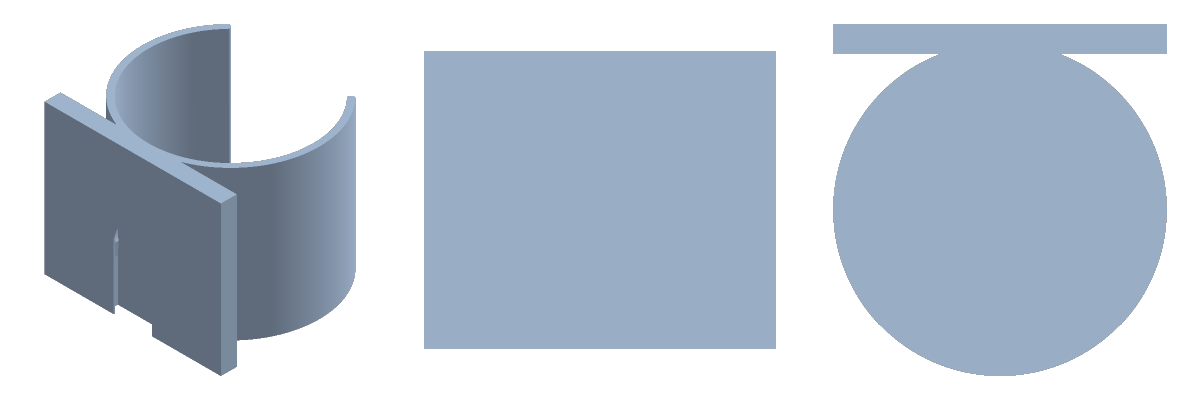
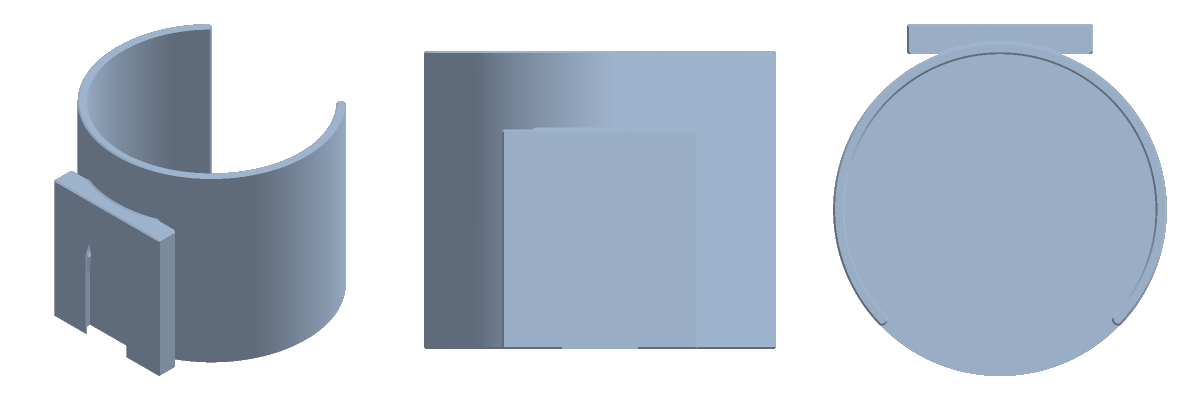
feat(cylindrical): right-size the back plate to the slot envelope + treat user-exposed edges (pst-6piw §2/§3) (#93)
Applies the new design guidelines to the C-ring holder. This lands §2 (edge
treatment) and §3 (material efficiency); §4 (cup-plate web) is deferred — see
the follow-up bead and the PR body for why the narrow §3 plate fights a web.

§3 material efficiency (AC#1/#2)
- _plate_geometry now sizes the plate to the SLOT ENVELOPE + margin
  (_min_plate_width(n) x MIN_PLATE_HEIGHT, both already fold _SLOT_EDGE_MARGIN
  in on every side), a function of the slot COUNT alone — independent of d and
  h. v4 oversized it to max(collar_width, ...) x max(h, ...).
- Volume: holder_spray_can 61916 -> 46483 mm^3 (-25%); holder_bottle_500ml
  61822 -> 48275 mm^3 (-22%). test_plate_is_sized_to_the_slot_envelope_not_
  the_cup sweeps d in [30,120] x h in [20,120] and pins width == envelope,
  height == MIN_PLATE_HEIGHT.

§2 edge treatment (AC#3), in the declared print pose (floor z=0 on the bed,
+Z up — see below), applied to the fused body BEFORE the slot pockets are
carved so the library cutter profile stays untouched:
- Bed-contact edges (z=0): 0.4 mm 45° chamfer (elephant-foot relief).
- Plate outer verticals + exposed top edges: 1.5 mm fillet.
- Collar top OUTER rim: 45° chamfer (a fillet that rolls the thin annular
  wall aborts OCP across the range — §2-sanctioned chamfer fallback; the inner
  bore lip stays sharp/functional).
- No downward-facing fillets. Tests: test_no_downward_facing_fillets (3
  presets), test_bed_contact_edges_are_chamfered, test_outer_edges_are_softened.
[…]

diff --git a/build123d/holders/cylindrical.py b/build123d/holders/cylindrical.py
@@ -29,9 +29,20 @@ Orientation convention (defined per plan review on pst-7lgg)
 - -Y: board side. The back plate's mount face (where the slot pockets open)
   points at the wall. +Y: front, where the opening gap faces.
 - X: lateral (slots are spaced along X at the 28 mm pitch).
-Print orientation: rotate so the back plate face (the -Y face) is on the
-bed; the slot pockets then face up and print cleanly (the openings that the
-round heads slide into are self-supporting in this orientation).
+Print orientation: **as modelled, +Z up — the floor disc (z=0) on the bed**
+(``print_orientation = (0, 0, 1)``, the ModelSpec default). This stands the
+cylinder axis vertical, so the collar prints as an upright ring (no side
+overhang) and the large flat floor is the first layer (excellent adhesion);
+the slot openings sit at the plate's bottom (z=0) edge and self-support. This
+supersedes an earlier note that put the -Y mount face on the bed — that pose
+lays the cylinder on its side and overhangs ~9300 mm^2 (57x this pose), so it
+is NOT the print orientation. Trade-off: the wall load (the can's weight,
+along -Z) then runs across the print layers at the cup-plate joint, which the
+§4 web + junction fillet reinforce (worst-case load direction: -Z shear +
+the +Y cantilever moment that peels the plate's top off the wall).
+
+Edge treatment and the printability audit are measured in THIS pose: the bed
+is the z=0 face; "downward" is -Z.
 """
 from __future__ import annotations
 
@@ -79,6 +90,16 @@ FLOOR_DEFAULT = 4.8
 FLOOR_EDGE_INSET = 0.1
 
 LIP_RADIUS = 1.0  # mm, nominal real BRep fillet on the opening's entry corners
+
+# --- Edge treatment (design-guidelines §1, §2) ---------------------------
+# User-exposed, non-functional edges get a fillet (top + vertical) or a 45°
+# chamfer (bed-contact / downward). Functional edges stay sharp: the mount
+# face, slot walls, snap notches, the bore. Applied to the fused body BEFORE
+# the library slot pockets are carved, so the treatment never touches the
+# cutter profile (its geometry is the spec) — §2's "never on library cutters".
+EDGE_FILLET = 1.5   # mm, R on outer vertical + top/rim edges (§2: R 1-2 mm)
+BED_CHAMFER = 0.4   # mm, 45° chamfer on bed-contact + downward edges (§1:
+                    # 0.3-0.5 mm elephant-foot relief; NEVER a downward fillet)
 
 # Radial clearance between the cylinder and the re-carved bore, mm. Keeps the
 # carve off-coplanar with the collar's inner face (a coplanar boolean left the
@@ -214,8 +235,16 @@ def _plate_geometry(r_in: float, r_out: float, h: float) -> tuple[float, float, 
     """
     collar_width = 2.0 * r_out
     n_slots = slot_count(collar_width)
-    width = max(collar_width, _min_plate_width(n_slots))
-    plate_h = max(h, MIN_PLATE_HEIGHT)
+    # §3 material efficiency (design-guidelines): the plate is the SLOT
+    # ENVELOPE + margin, centred behind the cup — NOT stretched to the cup's
+    # width or height. ``_min_plate_width(n)`` and ``MIN_PLATE_HEIGHT`` already
+    # fold _SLOT_EDGE_MARGIN in on every side, so the plate size is a function
+    # of the slot count ALONE — independent of d and h (bug: v4 set width =
+    # max(collar_width, ...) and plate_h = max(h, ...), oversizing the plate).
+    # The slot COUNT still scales with the cup (heavier cup -> more bearing
+    # surface); the sibling bead pst-c1qo promotes it to a tunable.
+    width = _min_plate_width(n_slots)
+    plate_h = MIN_PLATE_HEIGHT
     mount_y = -r_in - PANEL_THICKNESS
     # Seat sits _SLOT_ABOVE_SEAT above the opening mouth; place it so the
     # mouth pokes _SLOT_BOTTOM_OVERSHOOT below the plate bottom (z=0),
@@ -232,6 +261,77 @@ def _back_plate_solid(r_in: float, r_out: float, h: float) -> Part:
         width, PANEL_THICKNESS, plate_h,
         align=(Align.CENTER, Align.MIN, Align.MIN),
     )
+
+
+def _treat_edges(part: Part, wall: float, r_in: float, r_out: float, h: float) -> Part:
+    """Fillet/chamfer the user-exposed, non-functional edges (design-guidelines
+    §1, §2). Runs on the fused body BEFORE the slot pockets are carved, so it
+    never touches the library cutter profile (the spec). Functional edges stay
+    sharp: the mount face, the bore, and the slots (carved after).
+
+    - Bed-contact edges (the z=0 print face): 45° chamfer (BED_CHAMFER) —
+      elephant-foot relief. NEVER a fillet on a downward edge (§1: a bottom
+      fillet is a shallow overhang that prints as a curl).
+    - Plate outer vertical + top edges and the collar's top rims: fillet
+      (EDGE_FILLET, clamped so opposing fillets on a thin wall can't collide).
+
+    Each category is best-effort with a chamfer fallback (§2: if a fillet fails
+    in OCP, fall back rather than ship a hard edge); a per-category flag lets a
+    test confirm what was applied.
+    """
+    _w, plate_h, mount_y, _zs, _n = _plate_geometry(r_in, r_out, h)
+    plate_half_w = _w / 2.0
+
+    # 1) Bed-contact chamfer: every edge lying on the z=0 build-plate face.
+    bed = part.edges().filter_by_position(Axis.Z, -0.05, 0.05)
+    if bed:
+        part = part.chamfer(BED_CHAMFER, None, bed)
+
+    # 2) Plate outer VERTICAL edges (the four Z-parallel side edges at
+    #    x = +/- plate_half_w). Thick 6.4 mm plate -> a full EDGE_FILLET fits.
+    verticals = [
+        e for e in part.edges().filter_by(Axis.Z)
+        if abs(abs(e.center().X) - plate_half_w) < 0.5
+        and e.center().Y < -r_in + 0.5           # behind the collar (plate sides)
+    ]
+    if verticals:
+        try:
+            part = part.fillet(EDGE_FILLET, verticals)
+        except Exception:
+            part = part.chamfer(BED_CHAMFER, None, verticals)
+
+    # 3) Plate top edges (z=plate_h): fillet the exposed back + side top edges
+    #    (thick plate takes a full fillet). EXCLUDE the front top edge, which
+    #    is buried in the collar junction — filleting an edge embedded in
+    #    another body aborts OCP for thick walls / tall collars; that joint is
+    #    treated by the §4 web + junction fillet instead.
+    ptops = [
+        e for e in part.edges().filter_by_position(Axis.Z, plate_h - 0.05, plate_h + 0.05)
+        if e.center().Y < -r_in - 0.1
+    ]
+    if ptops:
+        try:
+            part = part.fillet(EDGE_FILLET, ptops)
+        except Exception:
+            part = part.chamfer(BED_CHAMFER, None, ptops)
+
+    # 4) Collar top rim (z=h): a 45° CHAMFER on the OUTER rim (radius ~ r_out)
+    #    a hand meets. The collar is a thin annular wall, so a fillet that rolls
+    #    both inner+outer overruns the wall and aborts OCP; a single-sided outer
+    #    fillet still fails on tall collars. A chamfer on the outer rim is
+    #    robust across the whole param range and is an upward edge (not a
+    #    forbidden downward fillet). The inner bore lip stays sharp (functional
+    #    — the can slides through it).
+    ctops = [
+        e for e in part.edges().filter_by_position(Axis.Z, h - 0.05, h + 0.05)
+        if math.hypot(e.center().X, e.center().Y) > r_in + wall / 2.0
+    ]
+    if ctops:
+        try:
+            part = part.chamfer(BED_CHAMFER, None, ctops)
+        except Exception:
+            pass
+    return part
 
 
 def slot_cutters(r_in: float, r_out: float, h: float) -> list[Part]:
@@ -340,6 +440,12 @@ def holder(
             align=(Align.CENTER, Align.CENTER, Align.MIN),
         )
         part = part.fuse(floor).clean()
+
+    # Edge treatment (design-guidelines §1/§2) on the fused body BEFORE the
+    # pockets are carved: fillet the user-facing outer/top edges, chamfer the
+    # bed-contact edges. Doing it here keeps the library cutter profile (carved
+    # next) untouched and the mount face / slot walls sharp.
+    part = _treat_edges(part, wall, r_in, r_out, h)
 
     # Carve the library slot pockets LAST, out of the unified body, so each
     # pocket is exactly the library cutter (nothing bespoke) and the floor

diff --git a/build123d/tests/test_cylindrical.py b/build123d/tests/test_cylindrical.py
@@ -14,7 +14,7 @@ import pytest
 sys.path.insert(0, str(Path(__file__).resolve().parent.parent))
 
 import trimesh  # noqa: E402
-from build123d import Align, Cylinder, Pos, export_stl  # noqa: E402
+from build123d import Align, Cylinder, GeomType, Pos, export_stl  # noqa: E402
 from opengrid.constants import OPEN_GRID_UNIT_SIZE  # noqa: E402
 from opengrid.multiconnect import SnapInSlotCutter  # noqa: E402
 
@@ -33,6 +33,8 @@ from holders.cylindrical import (  # noqa: E402
     TWO_SLOT_WIDTH_THRESHOLD,
     WALL_MAX,
     WALL_MIN,
+    MIN_PLATE_HEIGHT,
+    _min_plate_width,
     _plate_geometry,
     _lip_radius,
     holder,
@@ -182,6 +184,132 @@ def test_slot_count_scales_with_width():
     # The shipped presets (~70-78 mm plates) are single-slot.
     assert slot_count(2 * (66.0 / 2 + 2.4)) == 1
     assert slot_count(2 * (73.0 / 2 + 2.4)) == 1
+
+
+def test_plate_is_sized_to_the_slot_envelope_not_the_cup():
+    """§3 material efficiency (design-guidelines): the back plate is the SLOT
+    ENVELOPE + margin, a function of the slot COUNT alone — independent of the
+    cup diameter d and height h. ``_min_plate_width(n)`` and
+    ``MIN_PLATE_HEIGHT`` already fold _SLOT_EDGE_MARGIN in on every side, so
+    they ARE "envelope + 2*margin". v4 oversized the plate to
+    max(collar_width, ...) x max(h, ...); this pins the fix."""
+    # For holder(d=66, h=40): a single-slot plate.
+    w, ph, _my, _zs, n = _plate_geometry(33.0, 35.4, 40.0)
+    assert n == 1
+    assert w == pytest.approx(_min_plate_width(1), abs=0.5)
+    assert ph == pytest.approx(MIN_PLATE_HEIGHT, abs=0.5)
+
+    # Sweep d and h widely: for a FIXED slot count the plate size never moves,
+    # and the height never moves at all. (Slot count itself still scales with
+    # the cup — a deliberate load choice, promoted to a tunable in pst-c1qo.)
+    seen: dict[int, tuple[float, float]] = {}
+    for d in (30.0, 40.0, 66.0, 73.0, 90.0, 120.0):
+        for h in (20.0, 40.0, 60.0, 90.0, 120.0):
+            r_in = d / 2.0
+            r_out = r_in + 2.4
+            width, plate_h, _m, _z, n_slots = _plate_geometry(r_in, r_out, h)
+            # height is independent of EVERYTHING
+            assert plate_h == pytest.approx(MIN_PLATE_HEIGHT, abs=1e-6), (
+                f"plate height moved with d={d}, h={h}"
+            )
+            # width is a pure function of the slot count
+            assert width == pytest.approx(_min_plate_width(n_slots), abs=1e-6), (
+                f"plate width not the slot envelope at d={d}, h={h}"
+            )
+            if n_slots in seen:
+                assert seen[n_slots] == (width, plate_h)
+            seen[n_slots] = (width, plate_h)
+
+    # Both shipped presets are single-slot -> identical plate footprint.
+    p66 = _plate_geometry(33.0, 35.4, 60.0)[:2]
+    p73 = _plate_geometry(36.5, 38.9, 50.0)[:2]
+    assert p66 == p73, "the two presets must share one plate footprint (both 1-slot)"
+
+
+def _slot_boxes(d, h):
+    r_in = d / 2.0
+    r_out = r_in + 2.4
+    return [c.bounding_box() for c in slot_cutters(r_in, r_out, h)]
+
+
+def _in_slot(c, boxes, pad=0.7):
+    return any(
+        b.min.X - pad <= c.X <= b.max.X + pad
+        and b.min.Y - pad <= c.Y <= b.max.Y + pad
+        and b.min.Z - pad <= c.Z <= b.max.Z + pad
+        for b in boxes
+    )
+
+
+@pytest.mark.parametrize("d,h", [(66.0, 60.0), (73.0, 50.0), (66.0, 40.0)])
+def test_no_downward_facing_fillets(d, h):
+    """§1/§6.2: NO downward-facing fillet. In the declared print pose (floor,
+    z=0, on the bed; +Z up) a fillet on a bottom edge is a shallow overhang
+    that prints as a curl. Every face steeper than 45° below horizontal must
+    be either the flat bed itself (touching z=0), a 45° chamfer (PLANE/CONE),
+    or the library slot profile (the spec, exempt) — never a rolled fillet
+    surface. (The lone pre-existing 0.1 mm bore-top ledge at z=(h+8)/2 is a
+    PLANE, not a fillet, and is flagged as an out-of-scope follow-up.)"""
+    part = holder(d=d, h=h)
+    boxes = _slot_boxes(d, h)
+    cos45 = math.cos(math.radians(45))
+    offenders = []
+    for f in part.faces():
+        n = f.normal_at(f.center())
+        if n.Z < -cos45 - 1e-3:                      # steeper than 45° downward
+            bb = f.bounding_box()
+            c = f.center()
+            if bb.min.Z < 0.1 or _in_slot(c, boxes):  # bed / chamfer / library
+                continue
+            # A fillet rolls a torus (curved edge) or a tangent cylinder; a
+            # chamfer is a PLANE or a 45° CONE. Only planar faces (the bore
+            # ledge) are tolerated here.
+            if f.geom_type != GeomType.PLANE:
+                offenders.append((str(f.geom_type), round(f.area, 1),
+                                  (round(c.X, 1), round(c.Y, 1), round(c.Z, 1))))
+    assert not offenders, f"downward-facing fillet surfaces present: {offenders}"
+
+
+def test_bed_contact_edges_are_chamfered():
+    """§1/§6.2: the z=0 build-plate face carries a 0.3-0.5 mm 45° chamfer
+    (elephant-foot relief), not a fillet. Detect the chamfer faces that touch
+    the bed and slope at ~45° (normal Z ≈ -sin45), and confirm the relief is
+    within the 0.3-0.5 mm band."""
+    from holders.cylindrical import BED_CHAMFER
+    assert 0.3 <= BED_CHAMFER <= 0.5, "bed chamfer must be a 0.3-0.5 mm relief"
+    part = holder(d=66.0, h=60.0)
+    sin45 = math.sin(math.radians(45))
+    bed_chamfers = [
+        f for f in part.faces()
+        if f.bounding_box().min.Z < 0.1
+        and -sin45 - 0.15 < f.normal_at(f.center()).Z < -sin45 + 0.15
+        and f.geom_type in (GeomType.PLANE, GeomType.CONE)
+    ]
+    assert len(bed_chamfers) >= 4, (
+        f"expected the bottom outline chamfered; found {len(bed_chamfers)} "
+        "bed-contact 45° faces"
+    )
+
+
+def test_outer_edges_are_softened():
+    """§2/§6.4: user-exposed outer/top edges are treated (filleted/chamfered),
+    not left sharp. Edge treatment only ever REMOVES material, so a treated
+    build is strictly lighter than the same body with the treatment bypassed;
+    a meaningful drop proves the outer verticals + top + rim were rounded (the
+    plate side fillets alone remove tens of mm^3)."""
+    import holders.cylindrical as cyl
+    treated = holder(d=66.0, h=60.0).volume
+    orig = cyl._treat_edges
+    cyl._treat_edges = lambda part, *a, **k: part
+    try:
+        untreated = holder(d=66.0, h=60.0).volume
+    finally:
+        cyl._treat_edges = orig
+    assert untreated - treated > 30.0, (
+        f"edge treatment barely changed the body (untreated {untreated:.0f} - "
+        f"treated {treated:.0f} = {untreated - treated:.1f} mm^3) — outer/top "
+        "edges may not be getting rounded"
+    )
 
 
 def test_mount_is_the_library_slot():

diff --git a/build123d/tests/mount_contracts.py b/build123d/tests/mount_contracts.py
@@ -71,6 +71,8 @@ _PROFILE_MIN_DELTA = 3.0  # mm: min (deep width - surface width) proving the dov
 _PULL_DISTS = (0.5, 1.0, 2.0)  # mm: off-wall pull distances the head must be held at
 _SURFACE_IN = 0.4     # mm: depth just inside the mount face for the surface width probe
 _DEEP_IN = 3.75       # mm: depth near the pocket back for the deep width probe
+_FLANK_OFFSET = 1.5   # mm: how far beyond the slot's X-extent the plate must
+                      #     still be solid (into the plate's own side margin)
 
 _CENTER3 = (Align.CENTER, Align.CENTER, Align.CENTER)
 
@@ -152,8 +154,14 @@ def assert_aperture(part: Part, fx: MountFixtures) -> None:
             f"slot at x={x:.1f} is sealed at the bottom edge (residual {r:.2f} "
             "mm^3) — no aperture for the wall head"
         )
-    # Not merely "the whole bottom is missing": the plate is solid at its edge.
-    flank = Pos(bb.max.X - 1.0, y_in, z_low) * Box(1.5, 3.0, _SLAB, align=_CENTER3)
+    # Not merely "the whole bottom is missing": the plate is solid just BESIDE
+    # the slot. Anchor the flank probe to the slot's own X-extent, not the
+    # part's global max-X: the plate is sized to the slot envelope + margin and
+    # is now typically NARROWER than the cup (design-guidelines §3), so
+    # bb.max.X is the collar edge, with no plate behind the mount face there.
+    slot_max_x = max(c.bounding_box().max.X for c in fx.cutters)
+    flank_x = slot_max_x + _FLANK_OFFSET   # into the plate's side margin
+    flank = Pos(flank_x, y_in, z_low) * Box(1.0, 3.0, _SLAB, align=_CENTER3)
     fr = _residual_vol(part, flank)
     assert fr > _SOLID_MIN, (
         f"plate not solid flanking the slot aperture (edge residual {fr:.2f} mm^3)"
@@ -173,13 +181,19 @@ def assert_orientation(part: Part, fx: MountFixtures) -> None:
     )
     bb = part.bounding_box()
     y_in = bb.min.Y + 2.0
-    for loc in fx.seat_locs:
+    # Probe just above each slot's own closed (top) end, not the part's global
+    # max-Z: the plate is sized to the slot envelope and may be SHORTER than
+    # the cup (design-guidelines §3), so bb.max.Z can be the collar top, well
+    # above the plate. The slot cap is what must be solid — the head must not
+    # exit upward — so anchor the probe to the cutter's top.
+    for cutter, loc in zip(fx.cutters, fx.seat_locs):
         x = loc.position.X
-        above = Pos(x, y_in, bb.max.Z - 1.0) * Box(4.0, 3.0, _SLAB, align=_CENTER3)
+        slot_top = cutter.bounding_box().max.Z
+        above = Pos(x, y_in, slot_top + _SLAB) * Box(4.0, 3.0, _SLAB, align=_CENTER3)
         r = _residual_vol(part, above)
         assert r > _SOLID_MIN, (
-            f"plate not solid above the slot at x={x:.1f} (residual {r:.2f} "
-            "mm^3) — the channel appears to run out the TOP"
+            f"plate not solid just above the slot at x={x:.1f} (residual "
+            f"{r:.2f} mm^3) — the channel appears to run out the TOP"
         )
 
 
